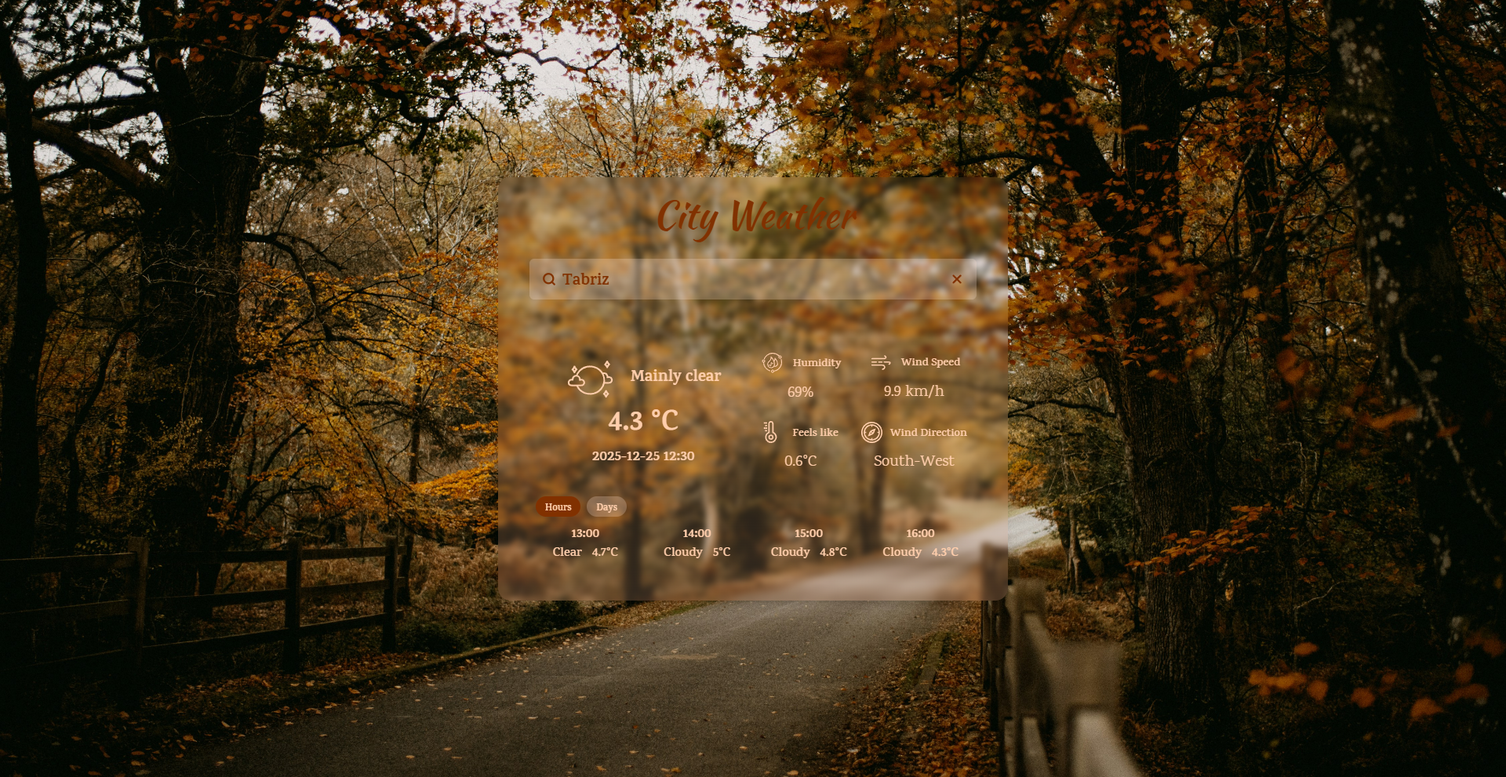
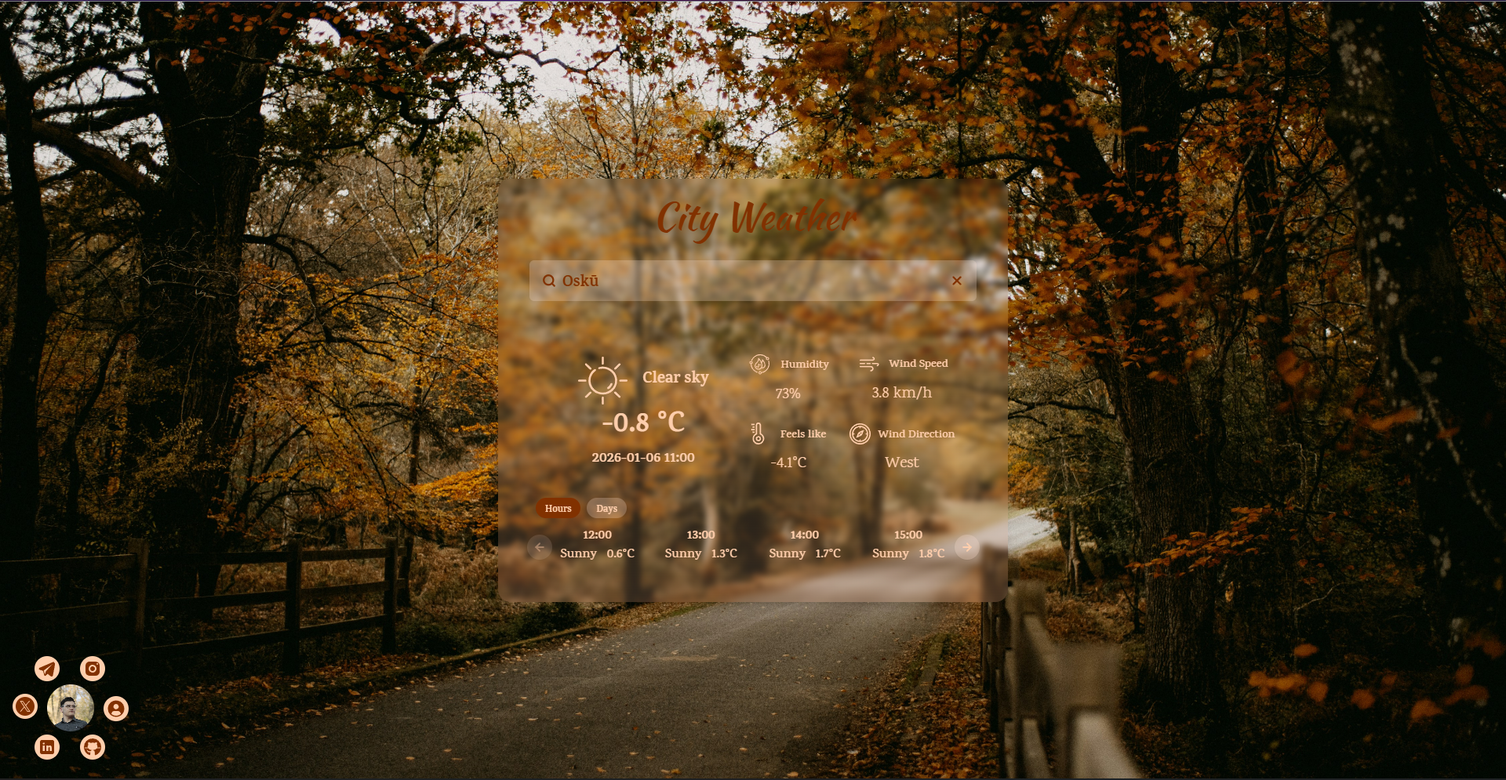
feat: integrate shadcn carousel for extended forecast range

diff --git a/src/components/ui/carousel.tsx b/src/components/ui/carousel.tsx
@@ -1,0 +1,239 @@
+import * as React from "react"
+import useEmblaCarousel, {
+  type UseEmblaCarouselType,
+} from "embla-carousel-react"
+import { ArrowLeft, ArrowRight } from "lucide-react"
+
+import { cn } from "@/lib/ClassUtils"
+import { Button } from "@/components/ui/button"
+
+type CarouselApi = UseEmblaCarouselType[1]
+type UseCarouselParameters = Parameters<typeof useEmblaCarousel>
+type CarouselOptions = UseCarouselParameters[0]
+type CarouselPlugin = UseCarouselParameters[1]
+
+type CarouselProps = {
+  opts?: CarouselOptions
+  plugins?: CarouselPlugin
+  orientation?: "horizontal" | "vertical"
+  setApi?: (api: CarouselApi) => void
+}
+
+type CarouselContextProps = {
+  carouselRef: ReturnType<typeof useEmblaCarousel>[0]
+  api: ReturnType<typeof useEmblaCarousel>[1]
+  scrollPrev: () => void
+  scrollNext: () => void
+  canScrollPrev: boolean
+  canScrollNext: boolean
+} & CarouselProps
+
+const CarouselContext = React.createContext<CarouselContextProps | null>(null)
+
+function useCarousel() {
+  const context = React.useContext(CarouselContext)
+
+  if (!context) {
+    throw new Error("useCarousel must be used within a <Carousel />")
+  }
+
+  return context
+}
+
+function Carousel({
+  orientation = "horizontal",
+  opts,
+  setApi,
+  plugins,
+  className,
+  children,
+  ...props
+}: React.ComponentProps<"div"> & CarouselProps) {
+  const [carouselRef, api] = useEmblaCarousel(
+    {
+      ...opts,
+      axis: orientation === "horizontal" ? "x" : "y",
+    },
+    plugins
+  )
+  const [canScrollPrev, setCanScrollPrev] = React.useState(false)
+  const [canScrollNext, setCanScrollNext] = React.useState(false)
+
+  const onSelect = React.useCallback((api: CarouselApi) => {
+    if (!api) return
+    setCanScrollPrev(api.canScrollPrev())
+    setCanScrollNext(api.canScrollNext())
+  }, [])
+
+  const scrollPrev = React.useCallback(() => {
+    api?.scrollPrev()
+  }, [api])
+
+  const scrollNext = React.useCallback(() => {
+    api?.scrollNext()
+  }, [api])
+
+  const handleKeyDown = React.useCallback(
+    (event: React.KeyboardEvent<HTMLDivElement>) => {
+      if (event.key === "ArrowLeft") {
+        event.preventDefault()
+        scrollPrev()
+      } else if (event.key === "ArrowRight") {
+        event.preventDefault()
+        scrollNext()
+      }
+    },
+    [scrollPrev, scrollNext]
+  )
+
+  React.useEffect(() => {
+    if (!api || !setApi) return
+    setApi(api)
+  }, [api, setApi])
+
+  React.useEffect(() => {
+    if (!api) return
+    onSelect(api)
+    api.on("reInit", onSelect)
+    api.on("select", onSelect)
+
+    return () => {
+      api?.off("select", onSelect)
+    }
+  }, [api, onSelect])
+
+  return (
+    <CarouselContext.Provider
+      value={{
+        carouselRef,
+        api: api,
+        opts,
+        orientation:
+          orientation || (opts?.axis === "y" ? "vertical" : "horizontal"),
+        scrollPrev,
+        scrollNext,
+        canScrollPrev,
+        canScrollNext,
+      }}
+    >
+      <div
+        onKeyDownCapture={handleKeyDown}
+        className={cn("relative", className)}
+        role="region"
+        aria-roledescription="carousel"
+        data-slot="carousel"
+        {...props}
+      >
+        {children}
+      </div>
+    </CarouselContext.Provider>
+  )
+}
+
+function CarouselContent({ className, ...props }: React.ComponentProps<"div">) {
+  const { carouselRef, orientation } = useCarousel()
+
+  return (
+    <div
+      ref={carouselRef}
+      className="overflow-hidden"
+      data-slot="carousel-content"
+    >
+      <div
+        className={cn(
+          "flex",
+          orientation === "horizontal" ? "-ml-4" : "-mt-4 flex-col",
+          className
+        )}
+        {...props}
+      />
+    </div>
+  )
+}
+
+function CarouselItem({ className, ...props }: React.ComponentProps<"div">) {
+  const { orientation } = useCarousel()
+
+  return (
+    <div
+      role="group"
+      aria-roledescription="slide"
+      data-slot="carousel-item"
+      className={cn(
+        "min-w-0 shrink-0 grow-0 basis-full",
+        orientation === "horizontal" ? "pl-4" : "pt-4",
+        className
+      )}
+      {...props}
+    />
+  )
+}
+
+function CarouselPrevious({
+  className,
+  variant = "outline",
+  size = "icon",
+  ...props
+}: React.ComponentProps<typeof Button>) {
+  const { orientation, scrollPrev, canScrollPrev } = useCarousel()
+
+  return (
+    <Button
+      data-slot="carousel-previous"
+      variant={variant}
+      size={size}
+      className={cn(
+        "absolute size-8 rounded-full",
+        orientation === "horizontal"
+          ? "top-1/2 -left-12 -translate-y-1/2"
+          : "-top-12 left-1/2 -translate-x-1/2 rotate-90",
+        className
+      )}
+      disabled={!canScrollPrev}
+      onClick={scrollPrev}
+      {...props}
+    >
+      <ArrowLeft />
+      <span className="sr-only">Previous slide</span>
+    </Button>
+  )
+}
+
+function CarouselNext({
+  className,
+  variant = "outline",
+  size = "icon",
+  ...props
+}: React.ComponentProps<typeof Button>) {
+  const { orientation, scrollNext, canScrollNext } = useCarousel()
+
+  return (
+    <Button
+      data-slot="carousel-next"
+      variant={variant}
+      size={size}
+      className={cn(
+        "absolute size-8 rounded-full",
+        orientation === "horizontal"
+          ? "top-1/2 -right-12 -translate-y-1/2"
+          : "-bottom-12 left-1/2 -translate-x-1/2 rotate-90",
+        className
+      )}
+      disabled={!canScrollNext}
+      onClick={scrollNext}
+      {...props}
+    >
+      <ArrowRight />
+      <span className="sr-only">Next slide</span>
+    </Button>
+  )
+}
+
+export {
+  type CarouselApi,
+  Carousel,
+  CarouselContent,
+  CarouselItem,
+  CarouselPrevious,
+  CarouselNext,
+}

diff --git a/src/features/weather-forecast/WeatherForecast.tsx b/src/features/weather-forecast/WeatherForecast.tsx
@@ -5,6 +5,8 @@ import { AppStates } from "@/stores/globalStates";
 import type { DayWeather, Weather } from "@/types/WeatherDetail";
 import { useState, type ReactElement } from "react";
 
+import { Carousel, CarouselContent, CarouselItem, CarouselNext, CarouselPrevious } from "@/components/ui/carousel";
+
 /**
  * Displays a single forecast entry (hourly or daily).
  */
@@ -17,7 +19,7 @@ interface ForecastProps {
 
 function Forecast({ index, label, status, temp }: ForecastProps): ReactElement {
 	return (
-		<div key={index} className="w-full text-center font-bold">
+		<div key={index} className="text-center font-bold ">
 			{label} <br />
 			<span className="font-semibold">
 				{status} &nbsp; {temp}°C
@@ -47,11 +49,13 @@ function ToggleButton({ label, active, onClick }: { label: string; active: boole
 function WeatherForecast(): ReactElement | null {
 	const [forecastType, setForecastType] = useState<"hours" | "days">("hours");
 	const weather = AppStates((s) => s.theCityWeather);
+	const nextPreviousButtonsClasses = cn(
+		"bg-[#FFE5D3]/25 hover:bg-[#FFE5D3]/25 hover:text-[#813100]",
+		"cursor-pointer border-none select-none",
+		"-translate-x-4 [&_svg]:stroke-3 -translate-y-3.5"
+	);
 
 	if (!weather) return null;
-
-	const nextHours = weather.nextHours.slice(0, 4);
-	const nextDays = weather.nextDays.slice(0, 4);
 
 	return (
 		<div className="w-full font-karma font-bold text-[#FFCEAC]">
@@ -62,27 +66,35 @@ function WeatherForecast(): ReactElement | null {
 			</div>
 
 			{/* Forecast list */}
-			<div className="mt-3 flex text-[16px]">
-				{forecastType === "days"
-					? nextDays.map((detail: DayWeather) => (
-							<Forecast
-								key={detail.time}
-								index={detail.time}
-								label={getWeekday(detail.time)}
-								status={getSimpleWeatherStatus(detail.weathercode, true)}
-								temp={Math.floor((detail.temp_max + detail.temp_min) / 2)}
-							/>
-					  ))
-					: nextHours.map((detail: Weather) => (
-							<Forecast
-								key={detail.time}
-								index={detail.time}
-								label={detail.time.split("T")[1]} // Extract time part (e.g., "14:00")
-								status={getSimpleWeatherStatus(detail.weathercode, true)}
-								temp={detail.temperature}
-							/>
-					  ))}
-			</div>
+			<Carousel className="w-[90%] mx-auto mt-3 text-[16px]" opts={{ align: "start" }}>
+				<CarouselContent className=" ">
+					{forecastType === "days"
+						? weather.nextDays.map((detail: DayWeather) => (
+								<CarouselItem className="basis-1/4 select-none">
+									<Forecast
+										key={detail.time}
+										index={detail.time}
+										label={getWeekday(detail.time)}
+										status={getSimpleWeatherStatus(detail.weathercode, true)}
+										temp={Math.floor((detail.temp_max + detail.temp_min) / 2)}
+									/>
+								</CarouselItem>
+						  ))
+						: weather.nextHours.slice(0, 20).map((detail: Weather) => (
+								<CarouselItem className="basis-1/4 select-none">
+									<Forecast
+										key={detail.time}
+										index={detail.time}
+										label={detail.time.split("T")[1]} // Extract time part (e.g., "14:00")
+										status={getSimpleWeatherStatus(detail.weathercode, true)}
+										temp={detail.temperature}
+									/>
+								</CarouselItem>
+						  ))}
+				</CarouselContent>
+				<CarouselPrevious className={cn(nextPreviousButtonsClasses, "translate-x-4")} />
+				<CarouselNext className={nextPreviousButtonsClasses} />
+			</Carousel>
 		</div>
 	);
 }
